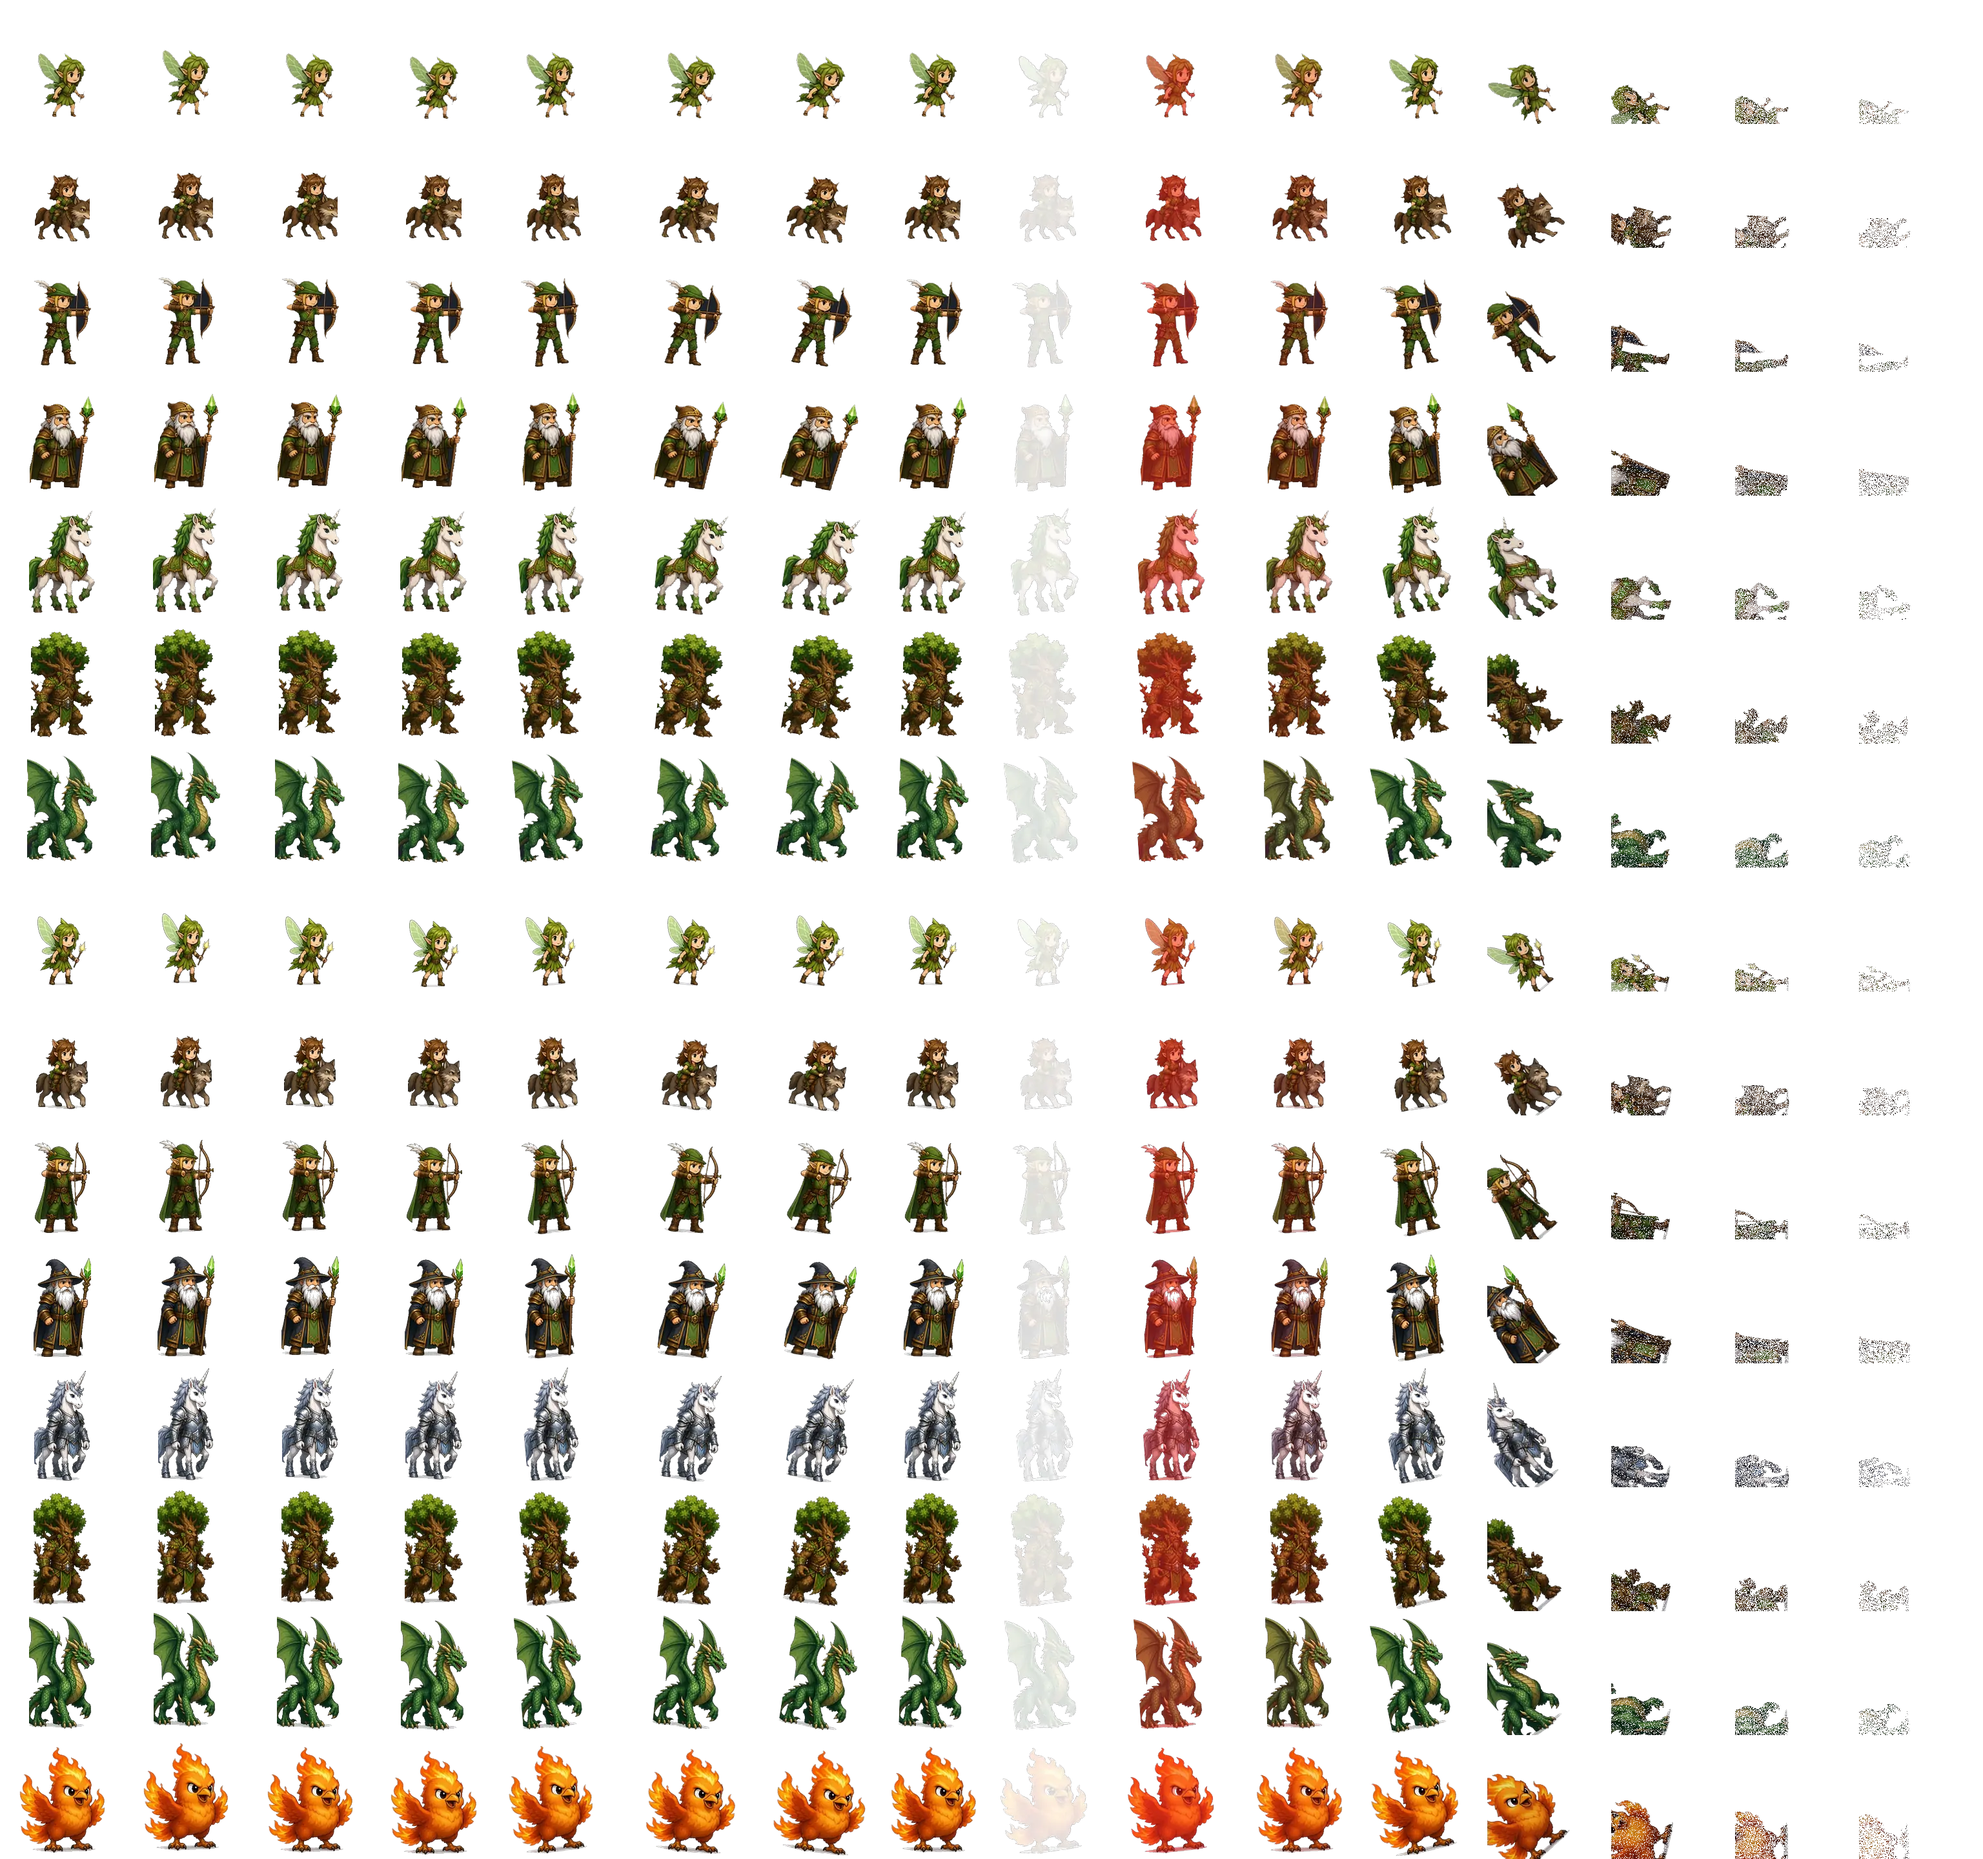
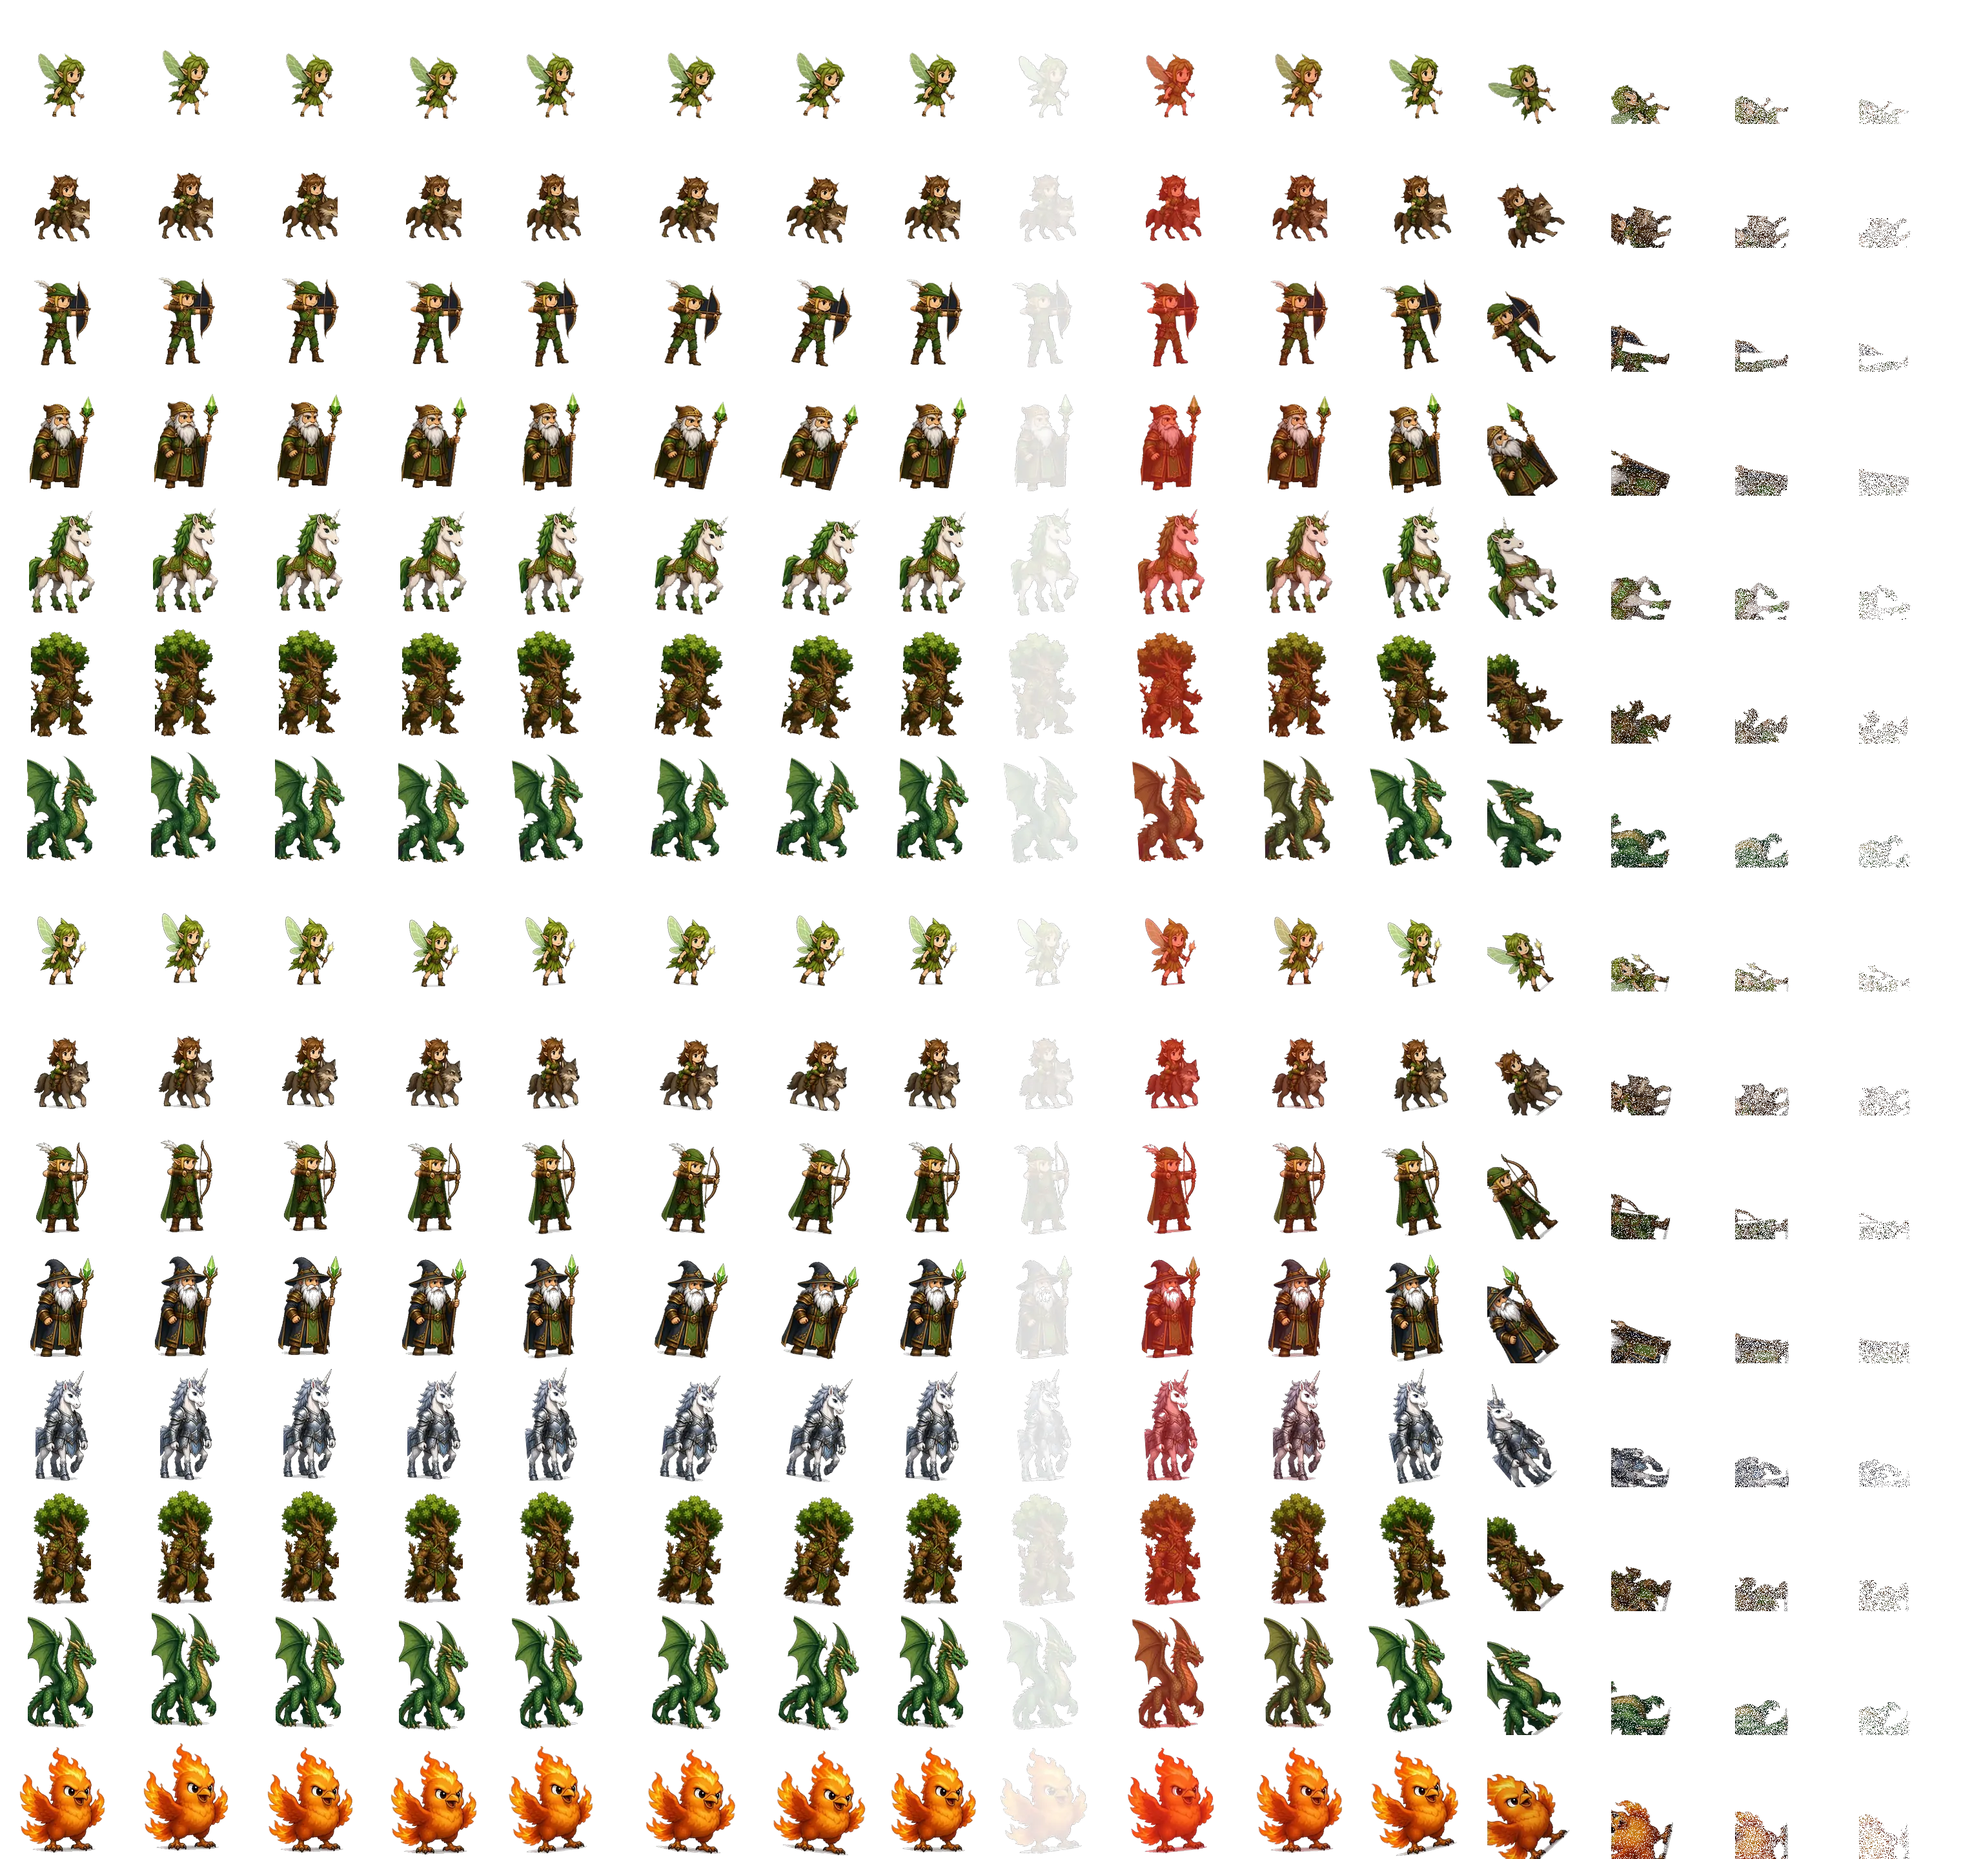
Mini Heroes 1.5.0: standalone human Arbalester (Castle T3 up), respaced Stronghold base T1-T7 sheet (Thunder Titan kept as T8), hand-tuned cuts for Stronghold sheets

diff --git a/tools/miniheroes-art/build_atlas.py b/tools/miniheroes-art/build_atlas.py
@@ -217,8 +217,9 @@ def drop_edge_bits(im):  # remove neighbour fragments: alpha blobs touching the 
             for x, y in pts: op[x, y] = (0, 0, 0, 0)
     return out
 UPSHEET = {'dwarf': 25, 'stronghold': 33, 'sylvan': 27, 'inferno': 28, 'castle': 32, 'necro': 30}  # Broz upgrade sheets: white bg, T1-T7 upgraded, captions below
-def up_figs(fac, n=7):
-    im = Image.open(os.path.join(HERE, 'src', 'broz', str(UPSHEET[fac]) + '.jpg')).convert('RGB'); w, h = im.size; px = im.load()
+BROZ_CUTS = {35: [99, 225, 346, 502, 666, 819, 1017], 33: [137, 316, 481, 709, 854, 1029]}  # hand-measured where neighbours touch (Stronghold base: T4 staff meets the T5 wing)
+def up_figs(fac, n=7, idx=None):
+    im = Image.open(os.path.join(HERE, 'src', 'broz', str(idx or UPSHEET[fac]) + '.jpg')).convert('RGB'); w, h = im.size; px = im.load()
     rows = [sum(1 for x in range(0, w, 2) if max(px[x, y]) < 110) for y in range(h)]
     y = h - 1
     while y > h // 2 and rows[y] < 2: y -= 1
@@ -234,8 +235,13 @@ def up_figs(fac, n=7):
             cl.append((s0 + e0) / 2)
         x += 1
     if len(cl) != n: raise SystemExit(f'upgrade sheet {fac}: found {len(cl)} captions, expected {n}')
-    rgba = cut_background(im.crop((0, 0, w, top)))
-    cuts = [0] + [round((cl[i] + cl[i + 1]) / 2) for i in range(n - 1)] + [w]
+    rgba = cut_background(im.crop((0, 0, w, top))); ap = rgba.getchannel('A').load()
+    colA = [sum(1 for yy in range(0, top, 2) if ap[x, yy] > 40) for x in range(w)]
+    # cut at the emptiest column between neighbouring captions (big figures are rarely centred on their caption)
+    def gap(a, b, near):  # emptiest column within 12px of the wanted cut
+        return min(range(near - 12, near + 13), key=lambda x: (colA[x], abs(x - near)))
+    want = BROZ_CUTS.get(idx or UPSHEET[fac]) or [round((cl[i] + cl[i + 1]) / 2) for i in range(n - 1)]
+    cuts = [0] + [gap(int(cl[i]), int(cl[i + 1]), want[i]) for i in range(n - 1)] + [w]
     return [clean(drop_edge_bits(rgba.crop((cuts[i], 0, cuts[i + 1], rgba.height)))) for i in range(n)]
 def match_h(figs, ref, k=1.06):  # size each upgrade to its base figure (upgrades read slightly bigger)
     return [f.resize((max(1, round(f.width * r.height * k / f.height)), round(r.height * k)), Image.LANCZOS) for f, r in zip(figs, ref)]
@@ -261,7 +267,7 @@ def main():
             myth[fac] = scale_row([clean(ar)] * 3)[0]
         rows = []
         if fac in BROZ:
-            sh, order = BROZ[fac]; bf = broz_figs(sh)
+            sh, order = BROZ[fac]; bf = broz_figs(sh) if fac != 'stronghold' else up_figs(fac, 8, 35)  # respaced white-bg base sheet; its T8 is replaced by Thunder Titan below
             if fac == 'dwarf':  # Broz's standalone Bear Rider (white bg, caption below), kept smaller than the T6 golem
                 im = Image.open(os.path.join(HERE, 'src', 'broz', '31.jpg')).convert('RGB'); br = clean(cut_background(im.crop((0, 0, im.width, int(im.height * 0.74)))))
                 hh = round(bf[order[5]].height * 0.8); bf[order[4]] = br.resize((max(1, round(br.width * hh / br.height)), hh), Image.LANCZOS)
@@ -278,7 +284,9 @@ def main():
             crops = [rgba.crop((max(0, a - 2), 0, min(rgba.width, b + 2), rgba.height)) for a, b in segments(rgba, 7, key)]
             if key == 'castle-up': crops[1] = degreen(crops[1])  # neighbour's quiver arrows overlap the halberd
             figs = scale_row([clean(c) for c in crops])
-            if key == 'castle-up': figs = match_h(up_figs('castle'), [f for _, f in rows[:7]])
+            if key == 'castle-up':
+                uf = up_figs('castle'); im = Image.open(os.path.join(HERE, 'src', 'broz', '34.jpg')).convert('RGB')  # standalone human Arbalester (replaces the sheet's frog-headed one)
+                uf[2] = clean(cut_background(im.crop((0, 0, im.width, int(im.height * 0.84))))); figs = match_h(uf, [f for _, f in rows[:7]])
             rows += list(zip(names, figs)); raws = None
         rows.append((mname, myth[fac]))
         atlas = Image.new('RGBA', (CELL * nfr, CELL * len(rows)), (0, 0, 0, 0)); ui = Image.new('RGBA', (UI * len(rows), UI), (0, 0, 0, 0))
